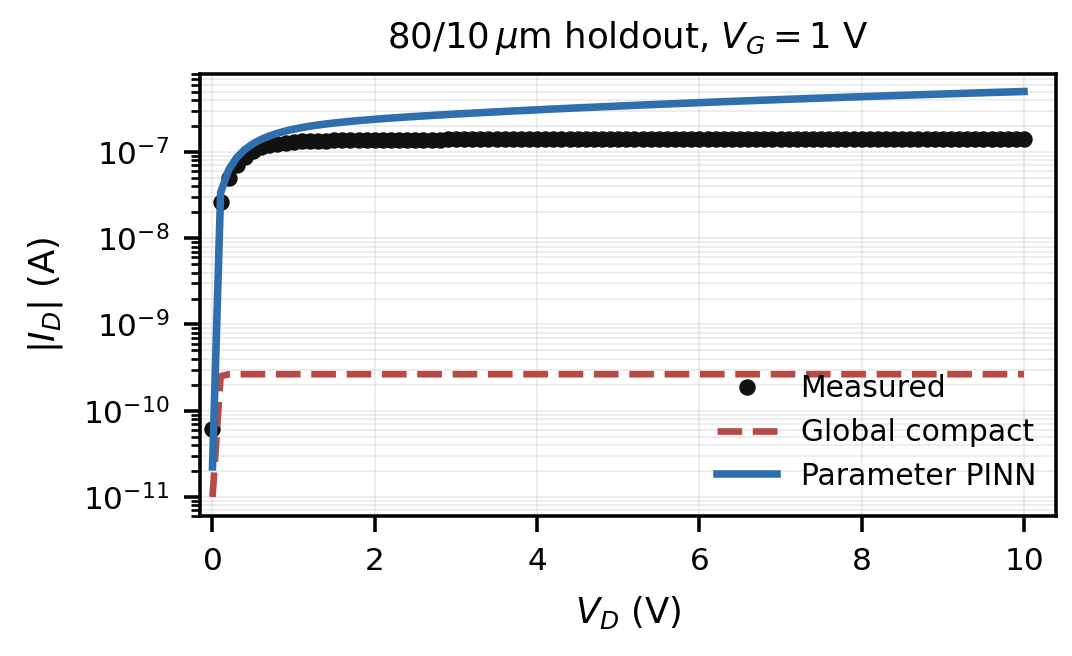
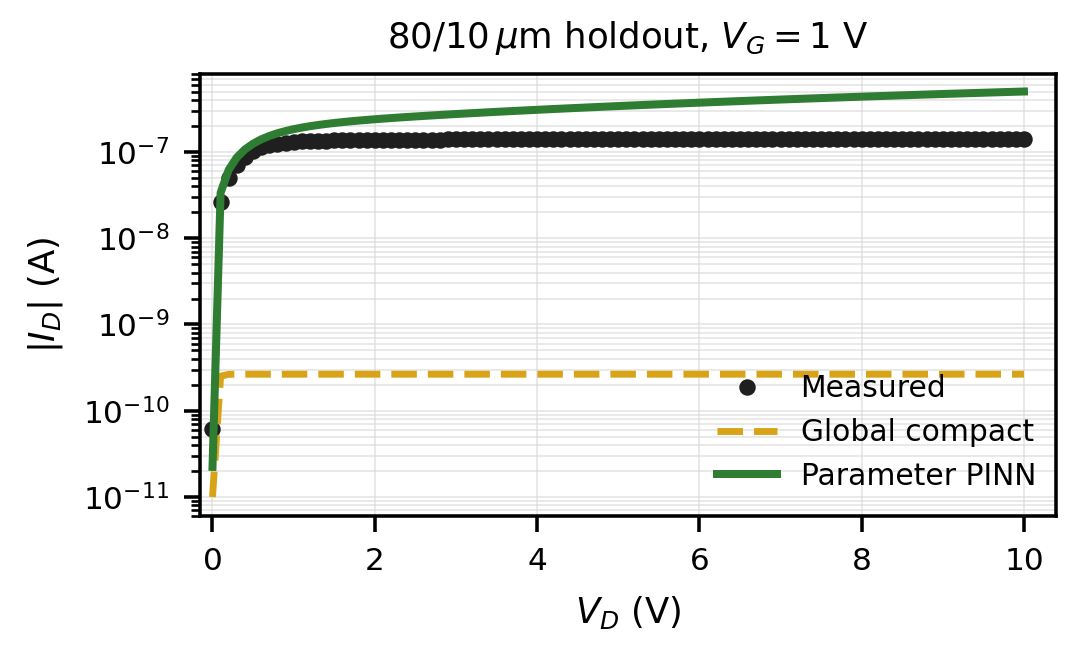
Update paper figures and workflow diagram

diff --git a/paper/tft_pinn_compact_modeling.tex b/paper/tft_pinn_compact_modeling.tex
@@ -29,7 +29,7 @@ and Wei Tang\IEEEauthorrefmark{2}\IEEEauthorrefmark{3}}
 \thispagestyle{empty}
 
 \begin{abstract}
-Thin-film transistor (TFT) compact models are needed for SPICE simulation, but parameter extraction across device dimensions is difficult when only a small set of measured geometries is available. This work presents a compact-model-centered PINN-assisted workflow for TFT modeling. A Verilog-A-compatible compact model is first implemented in Python and checked against ngspice simulation. Conventional compact fitting is then used to establish the measured-device baseline, followed by width/length holdout tests that expose the limitation of traditional geometry scaling for the smallest channel length. A parameter PINN is introduced to learn the mapping from device geometry to compact-model parameters, reducing the difficult \(80/10~\mu\mathrm{m}\) holdout error from \(1.54\) to \(0.47\) decade. Finally, a residual PINN is used as a diagnostic layer to identify bias regions where structured error remains. The results support a practical role for PINNs in TFT SPICE modeling: assisting parameter extraction, improving difficult geometry extrapolation, and guiding compact-model refinement through residual analysis.
+Thin-film transistor (TFT) compact models are needed for SPICE simulation, but parameter extraction across device dimensions is difficult with limited geometries. This work presents a compact-model-centered PINN-assisted workflow for TFT modeling. A Verilog-A-compatible compact model is implemented in Python and checked against ngspice simulation. Conventional compact fitting establishes the measured-device baseline, and width/length holdout tests expose the limitation of traditional geometry scaling for the smallest channel length. A parameter PINN learns the mapping from device geometry to compact-model parameters, reducing the difficult \(80/10~\mu\mathrm{m}\) holdout error from \(1.54\) to \(0.47\) decade. A residual PINN then identifies bias regions where structured error remains. The results support a practical role for PINNs in TFT SPICE modeling: assisting parameter extraction, improving difficult geometry extrapolation, and guiding compact-model refinement.
 \end{abstract}
 
 \begin{IEEEkeywords}
@@ -37,11 +37,11 @@ thin-film transistor, compact model, SPICE, PINN, residual modeling, Verilog-A
 \end{IEEEkeywords}
 
 \section{Introduction}
-Compact models connect device characterization to circuit simulation and remain central to TFT-based circuit design \cite{lu2018review,nagel1975spice2}. For emerging or laboratory-scale TFT technologies, the available dataset is often small: a few device geometries, repeated measurements, and several bias sweeps. A model fitted independently to each measured device can reproduce measured curves, but circuit design needs a single SPICE-compatible description that remains useful across geometry and bias.
+Compact models connect device characterization to circuit simulation and remain central to TFT-based circuit design \cite{lu2018review,nagel1975spice2}. For emerging TFT technologies, the available dataset is often small: a few device geometries, repeated measurements, and several bias sweeps. Independent fits can reproduce measured curves, but circuit design needs a single SPICE-compatible description that remains useful across geometry and bias.
 
 This paper studies a compact-model-centered workflow for three measured TFT geometries, denoted by channel width/length pairs \(80/10\), \(80/20\), and \(80/40~\mu\mathrm{m}\). The workflow follows the idea of physics-informed neural networks, where neural models are constrained or guided by physical or model structure \cite{raissi2019physics}. Here, the compact model remains the simulation layer, while neural modules are used for parameter mapping and residual diagnosis.
 
-The contributions are threefold. First, a SPICE-compatible TFT compact model is implemented in both Python and Verilog-A/ngspice, and the two implementations are checked for numerical consistency. Second, compact fitting and holdout experiments are used to separate measured-device fitting accuracy from geometry extrapolation accuracy. Third, parameter PINN and residual PINN modules are evaluated around the compact model: the former learns geometry-dependent compact parameters, and the latter identifies bias regions where systematic residual error remains.
+The contributions are threefold. First, a SPICE-compatible TFT compact model is implemented in both Python and Verilog-A/ngspice, and the two implementations are checked for numerical consistency. Second, compact fitting and holdout experiments separate measured-device fitting accuracy from geometry extrapolation accuracy. Third, parameter PINN and residual PINN modules are evaluated around the compact model for geometry-dependent parameter mapping and residual diagnosis.
 
 \section{Modeling Workflow}
 The drain current is described by a Verilog-A-compatible compact expression with threshold voltage, current prefactor, mobility-shape exponent, subthreshold factor, channel-length modulation, saturation scale, and off-current terms. The same equations are implemented in Python for fitting and checked against ngspice simulation \cite{ngspice_manual}.
@@ -54,7 +54,7 @@ The measured dataset contains output curves \(I_D\)-\(V_D\) and transfer curves 
 \end{equation}
 where \(I_0\) is a small numerical floor.
 
-Fig.~\ref{fig:workflow} summarizes the evaluated workflow. The compact model is the center of the method. Conventional fitting extracts compact parameters directly. The parameter PINN maps \((\log W,\log L)\) to compact-model parameters and is trained with current loss and smoothness regularization. The residual PINN keeps the parameter-PINN current as a baseline and learns a bounded correction in log-current space,
+Fig.~\ref{fig:workflow} summarizes the workflow. Conventional fitting extracts compact parameters directly. The parameter PINN maps \((\log W,\log L)\) to compact-model parameters with current loss and smoothness regularization. The residual PINN keeps the parameter-PINN current as a baseline and learns a bounded correction in log-current space,
 \begin{equation}
     \log_{10} I_D^{\mathrm{res}} =
     \log_{10} I_D^{\mathrm{base}} +
@@ -64,14 +64,16 @@ The residual model is used mainly for diagnosis: the spatial distribution of \(r
 
 \begin{figure}[t]
 \centering
-\resizebox{\columnwidth}{!}{%
+\includegraphics[width=0.88\columnwidth]{figures/model.png}
+\vspace{0.2mm}
+\resizebox{0.82\columnwidth}{!}{%
 \begin{tikzpicture}[
     block/.style={
         draw,
         rounded corners=1.5pt,
         align=center,
-        text width=2.45cm,
-        minimum height=0.78cm,
+        text width=2.35cm,
+        minimum height=0.68cm,
         font=\scriptsize,
         inner sep=2pt
     },
@@ -79,19 +81,19 @@ The residual model is used mainly for diagnosis: the spatial distribution of \(r
         draw,
         rounded corners=1.5pt,
         align=center,
-        text width=2.75cm,
-        minimum height=0.88cm,
+        text width=2.60cm,
+        minimum height=0.76cm,
         font=\scriptsize\bfseries,
         inner sep=2pt
     },
     arrow/.style={-{Latex[length=2mm]}, thick}
 ]
 \node[centerblock] (compact) {SPICE-compatible\\TFT compact model};
-\node[block, above=6mm of compact] (data) {Measured TFT\\$I_D$--$V_D$, $I_D$--$V_G$};
-\node[block, left=7mm of compact] (fit) {Conventional\\compact fitting};
-\node[block, right=7mm of compact] (pinn) {Parameter PINN\\Geometry $\rightarrow$ parameters};
-\node[block, below=6mm of compact] (res) {Residual PINN\\bias-region diagnosis};
-\node[block, below=6mm of fit] (spice) {Verilog-A/ngspice\\consistency check};
+\node[block, above=4mm of compact] (data) {Measured TFT\\$I_D$--$V_D$, $I_D$--$V_G$};
+\node[block, left=5mm of compact] (fit) {Conventional\\compact fitting};
+\node[block, right=5mm of compact] (pinn) {Parameter PINN\\Geometry $\rightarrow$ parameters};
+\node[block, below=4mm of compact] (res) {Residual PINN\\bias-region diagnosis};
+\node[block, below=4mm of fit] (spice) {Verilog-A/ngspice\\consistency check};
 
 \draw[arrow] (data) -- (compact);
 \draw[arrow] (fit) -- (compact);
@@ -100,19 +102,19 @@ The residual model is used mainly for diagnosis: the spatial distribution of \(r
 \draw[arrow] (compact) -- (spice);
 \end{tikzpicture}%
 }
-\caption{Compact-model-centered workflow. The compact model remains the SPICE-compatible simulation layer. Conventional fitting establishes the baseline, the parameter PINN improves geometry-dependent parameter mapping and geometry extrapolation, and the residual PINN identifies remaining bias-region errors.}
+\caption{Compact-model-centered workflow. Measured TFT structures are fitted with a SPICE-compatible compact model, then analyzed by parameter and residual PINN modules for geometry-dependent parameter mapping and bias-region diagnosis.}
 \label{fig:workflow}
 \end{figure}
 
 \section{Results}
 \subsection{Measured-device compact fitting}
-Independent compact fitting gives mean absolute log errors of \(0.06\)--\(0.19\) decade on measured devices. The fitted Python model and the Verilog-A/ngspice implementation agree to below \(10^{-3}\) decade on average, confirming that the extracted model is transferable to the circuit simulator. This result establishes that the compact expression can describe the measured output and transfer curves when each geometry is fitted separately.
+Independent compact fitting gives mean absolute log errors of \(0.06\)--\(0.19\) decade on measured devices. The fitted Python model and Verilog-A/ngspice implementation agree to below \(10^{-3}\) decade on average, confirming transferability to the circuit simulator. This result establishes that the compact expression can describe the measured output and transfer curves when each geometry is fitted separately.
 
 \subsection{Traditional width/length extrapolation}
 The main difficulty appears in geometry extrapolation. A global conventional width/length fit gives a mean holdout error of \(1.54\) decade for the \(80/10~\mu\mathrm{m}\) device, while the other two holdout geometries remain below \(0.27\) decade. Enlarging the allowable subthreshold factor improves the measured-device fit; explicit source/drain resistance fitting gives no consistent gain for the present dataset.
 
 \subsection{Parameter PINN for compact parameters}
-The parameter PINN improves the difficult \(80/10~\mu\mathrm{m}\) holdout case. Table~\ref{tab:holdout} compares the conventional global fit and the parameter PINN using the average of output and transfer curves for each held-out geometry. The \(80/10~\mu\mathrm{m}\) error is reduced from \(1.54\) to \(0.47\) decade. For \(80/20\) and \(80/40~\mu\mathrm{m}\), the conventional fit remains competitive, indicating that the neural parameter map is most useful where the compact width/length scaling is poorly conditioned.
+The parameter PINN improves the difficult \(80/10~\mu\mathrm{m}\) holdout case. Table~\ref{tab:holdout} averages output and transfer errors for each held-out geometry. The \(80/10~\mu\mathrm{m}\) error is reduced from \(1.54\) to \(0.47\) decade, while the conventional fit remains competitive for the other two sizes.
 
 \begin{table}[t]
 \caption{Mean absolute log-current error in width/length holdout tests.}
@@ -131,12 +133,12 @@ Parameter PINN & 0.467 & 0.337 & 0.314 \\
 \begin{figure}[t]
 \centering
 \includegraphics[width=0.72\linewidth]{figures/representative_80_10_holdout_idvd.png}
-\caption{Representative \(80/10~\mu\mathrm{m}\) width/length holdout curve at \(V_G=1\) V. The parameter PINN follows the measured output curve more closely than the conventional global compact fit for this small-channel-length case.}
+\caption{Representative \(80/10~\mu\mathrm{m}\) holdout curve at \(V_G=1\) V. The parameter PINN follows the measured output curve more closely than the global compact fit.}
 \label{fig:wl}
 \end{figure}
 
 \subsection{Residual PINN for diagnosis}
-The residual PINN is evaluated as a diagnostic and local-correction layer on top of the parameter-PINN baseline, and its results are reported separately from the width/length ranking in Table~\ref{tab:holdout}. It reduces the average pointwise holdout error for \(80/20\) and \(80/40~\mu\mathrm{m}\), and only slightly changes the average error for \(80/10~\mu\mathrm{m}\). The curve-level improvement rate remains high: \(64\%\)--\(70\%\) of \(80/10~\mu\mathrm{m}\) holdout points improve, even though a smaller set of over-corrected points increases the average error. For \(80/20~\mu\mathrm{m}\), the residual model reduces the output-curve error from \(0.172\) to \(0.091\) decade and the transfer-curve error from \(0.162\) to \(0.108\) decade.
+The residual PINN is evaluated as a diagnostic and local-correction layer on top of the parameter-PINN baseline, and its results are reported separately from the width/length ranking in Table~\ref{tab:holdout}. It reduces the average pointwise holdout error for \(80/20\) and \(80/40~\mu\mathrm{m}\), and only slightly changes \(80/10~\mu\mathrm{m}\). For \(80/20~\mu\mathrm{m}\), the output-curve error decreases from \(0.172\) to \(0.091\) decade and the transfer-curve error from \(0.162\) to \(0.108\) decade.
 
 \begin{figure}[t]
 \centering
@@ -144,14 +146,14 @@ The residual PINN is evaluated as a diagnostic and local-correction layer on top
 \includegraphics[width=0.48\linewidth]{figures/residual_holdout_curve_reduction.png} &
 \includegraphics[width=0.48\linewidth]{figures/residual_holdout_bias_heatmap.png}
 \end{tabular}
-\caption{Residual PINN diagnostics on holdout data. Positive values indicate lower log-current error after residual correction. Most bias regions improve on average, while local over-correction remains visible in selected device/curve subsets.}
+\caption{Residual PINN diagnostics on holdout data. Positive values indicate lower log-current error after residual correction; local over-correction remains visible in selected subsets.}
 \label{fig:residual}
 \end{figure}
 
-Bias-region analysis gives the clearest interpretation. Averaged over holdout devices, all regions except low-\(V_G\)/mid-\(V_D\) improve after residual correction. The strongest improvements occur in mid-\(V_G\)/mid-\(V_D\), mid-\(V_G\)/high-\(V_D\), and low-\(V_G\)/high-\(V_D\) regions. Device-resolved analysis shows the main failure modes: high-\(V_G\)/mid-\(V_D\) output curves of \(80/10~\mu\mathrm{m}\), high-\(V_G\)/low-to-mid-\(V_D\) transfer curves of \(80/10~\mu\mathrm{m}\), and low-\(V_G\)/low-to-mid-\(V_D\) transfer curves of \(80/40~\mu\mathrm{m}\). These regions suggest possible missing descriptions in high-gate-bias linear operation, low-current transfer behavior, or geometry-dependent scaling.
+Bias-region analysis gives the clearest interpretation. Averaged over holdout devices, all regions except low-\(V_G\)/mid-\(V_D\) improve after residual correction. The strongest improvements occur in mid-\(V_G\)/mid-\(V_D\), mid-\(V_G\)/high-\(V_D\), and low-\(V_G\)/high-\(V_D\) regions. Device-resolved failures concentrate in high-\(V_G\)/mid-\(V_D\) output curves of \(80/10~\mu\mathrm{m}\), high-\(V_G\)/low-to-mid-\(V_D\) transfer curves of \(80/10~\mu\mathrm{m}\), and low-\(V_G\)/low-to-mid-\(V_D\) transfer curves of \(80/40~\mu\mathrm{m}\). These regions suggest possible missing descriptions in high-gate-bias linear operation, low-current transfer behavior, or geometry-dependent scaling.
 
 \section{Conclusion}
-A compact-model-centered PINN workflow was evaluated for TFT SPICE modeling with limited measured geometries. Conventional compact fitting provides accurate measured-device fits and simulator-compatible parameters, but width/length extrapolation can fail for the smallest channel length. A parameter PINN improves the most difficult geometry holdout by learning smooth dimension-dependent compact parameters. A residual PINN improves many measured and holdout bias regions and provides a useful map of where the compact model leaves structured error. Its local over-correction in selected holdout regions suggests that the residual network should be used as a diagnostic layer before being converted into a compact-model correction term. Processed data and paper-generation files are available at \url{https://github.com/Yang-Fran/tft-pinn-compact-modeling}. Future work will extend the geometry set and test whether the residual patterns can be translated into explicit SPICE model terms for high-gate-bias and low-current operation.
+A compact-model-centered PINN workflow was evaluated for TFT SPICE modeling with limited measured geometries. Conventional compact fitting provides accurate measured-device fits and simulator-compatible parameters, but width/length extrapolation can fail for the smallest channel length. A parameter PINN improves the difficult geometry holdout through smooth dimension-dependent compact parameters. A residual PINN maps remaining structured error and is best used as a diagnostic layer before conversion into explicit compact-model terms. Future work will extend the geometry set and test whether residual patterns can be translated into SPICE model terms for high-gate-bias and low-current operation. Processed data and paper-generation files are available at \url{https://github.com/Yang-Fran/tft-pinn-compact-modeling}.
 
 \bibliographystyle{IEEEtran}
 \bibliography{references}